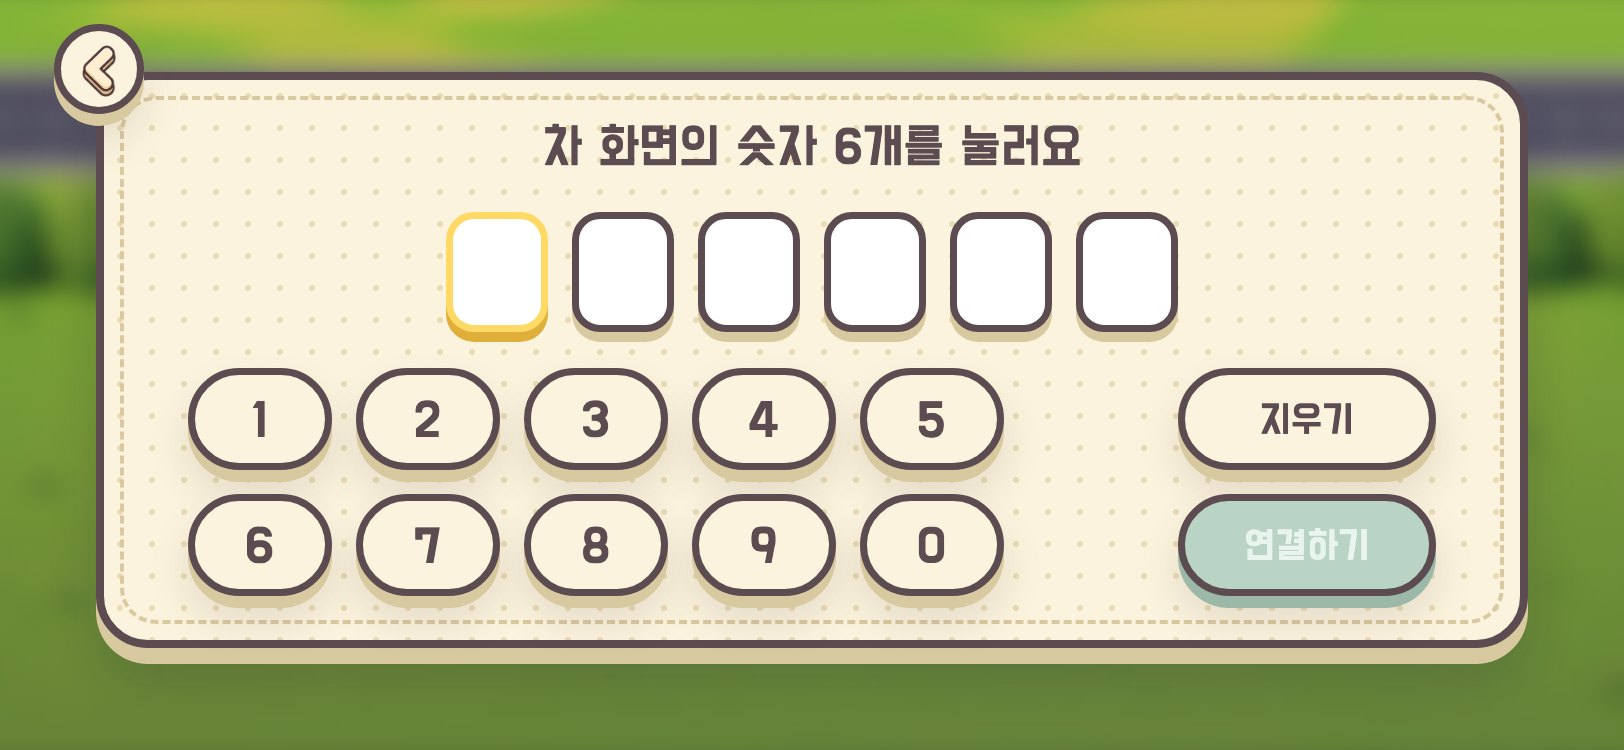
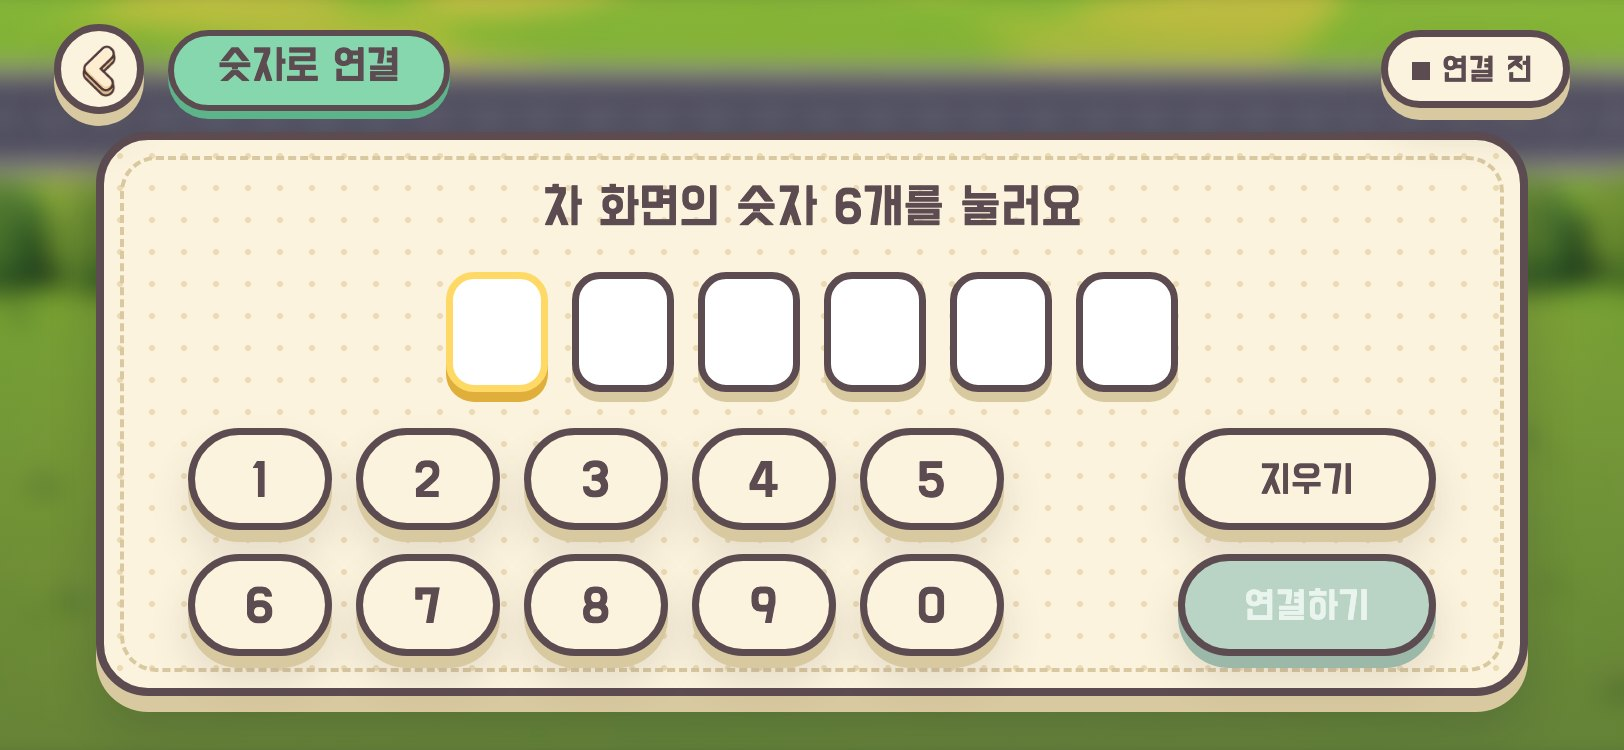
docs: add phone state screens and a V2 design system based on the car screen structure

diff --git a/docs/mockups/v2/allo-flow.html b/docs/mockups/v2/allo-flow.html
@@ -108,12 +108,12 @@ button.px[disabled]{--bg:#B9D3C4;--sh:#9BB8A8;--fg:#EAF4EE;pointer-events:none}
 #start{left:50%;bottom:30px;transform:translateX(-50%);padding:0 27px 6px;height:48px;font-size:22px;animation:pulse 1.2s ease-in-out infinite}@keyframes pulse{50%{transform:translateX(-50%) translateY(-6px)}}
 #sp1,#sp2{position:absolute;z-index:25;width:120px;height:120px;object-fit:contain}
 /* 차 연결 */
-#qrb{left:120px;top:42px;width:572px;height:243px}
+#qrb{left:120px;top:72px;width:572px;height:243px}
 #cam{position:absolute;left:36px;top:36px;width:168px;height:168px;background:#14163a;display:grid;place-items:center;cursor:pointer;box-shadow:0 0 0 3px var(--N)}
 #cam i{position:absolute;width:30px;height:30px;border:6px solid #fff}#cam i:nth-child(1){left:12px;top:12px;border-right:0;border-bottom:0}#cam i:nth-child(2){right:12px;top:12px;border-left:0;border-bottom:0}#cam i:nth-child(3){left:12px;bottom:12px;border-right:0;border-top:0}#cam i:nth-child(4){right:12px;bottom:12px;border-left:0;border-top:0}
 #cam span{font:700 13px/1.4 var(--f);color:#C9CCF3;text-align:center}
 #qr-r{position:absolute;left:240px;right:30px;top:36px}#qr-r p{margin-top:8px}#qr-r .px{position:relative;margin-top:18px;height:42px;padding:0 21px 6px;display:inline-flex}
-#codeb{left:48px;right:48px;top:36px;height:288px}#codeb h2{position:absolute;left:0;right:0;top:18px;text-align:center;font-size:26px}
+#codeb{left:48px;right:48px;top:66px;height:282px}#codeb h2{position:absolute;left:0;right:0;top:18px;text-align:center;font-size:26px}
 #boxes{position:absolute;left:50%;top:66px;transform:translateX(-50%);display:flex;gap:12px}#boxes i{width:51px;height:60px;background:#fff;box-shadow:0 -3px 0 0 var(--N),0 3px 0 0 var(--N),-3px 0 0 0 var(--N),3px 0 0 0 var(--N),inset 0 -6px 0 0 #E9E2C8;font:400 34px/54px var(--fd);text-align:center;font-style:normal}#boxes i.cur{box-shadow:0 -3px 0 0 var(--y),0 3px 0 0 var(--y),-3px 0 0 0 var(--y),3px 0 0 0 var(--y),inset 0 -6px 0 0 #E9E2C8}
 #keys{position:absolute;left:42px;top:144px;display:grid;grid-template-columns:repeat(5,72px);gap:12px}#keys .px,#kact .px{position:relative;height:51px;font-size:26px;padding:0 0 6px}
 #kact{position:absolute;right:42px;top:144px;display:flex;flex-direction:column;gap:12px}#kact .px{width:129px;font-size:20px}
@@ -188,6 +188,35 @@ button.px[disabled]{--bg:#B9D3C4;--sh:#9BB8A8;--fg:#EAF4EE;pointer-events:none}
 :is(.t3d,.toy) #zsay,:is(.t3d,.toy) #csay{padding:13px 16px!important}
 .tg::after{top:50%!important;transform:translateY(-50%)}
 .tier{padding-top:0!important;padding-bottom:0!important}
+
+/* V2 공통 헤더·상태 띠·상태 화면 (차량 화면 #92의 구조를 폰 3D 스킨으로 옮김) */
+:root{--r:#F4A59B;--r-s:#D27C72;--r-h:#FBD0CA}
+.px.r{--bg:var(--r);--sh:var(--r-s);--hi:var(--r-h);--fg:var(--N)}
+.ttl.hd{left:84px;top:15px;z-index:35}
+#stat{right:27px;top:15px;height:39px;padding:0 15px 0 12px;font-size:17px;z-index:35;display:none}
+#stat i{width:9px;height:9px;background:var(--N);flex:none}
+#stat.ok i{background:#2E9A6B}#stat.wait i{animation:blink 1s ease-in-out infinite}
+.px.band{left:27px;right:27px;bottom:21px;height:45px;justify-content:flex-start;gap:10px;padding:0 18px!important;font:500 14px/1.3 var(--f);text-shadow:none;z-index:30}
+.band i{width:22px;height:22px;border-radius:50%;background:var(--N);color:#fff;display:grid;place-items:center;font:700 14px/1 var(--f);font-style:normal;flex:none}
+.band.w{--bg:#DDF1FD;--sh:var(--b-s)}.band.w i{animation:blink 1s ease-in-out infinite}
+.band.e{--bg:#FDE3DF;--sh:var(--r-s)}.band.e i{background:#C2554A}
+.stg{position:absolute;z-index:20;left:40px;top:62px;width:290px;height:226px}
+.stg img{position:absolute;left:50%;bottom:34px;width:190px;height:190px;margin-left:-95px;object-fit:contain}
+.stg::before{content:"";position:absolute;left:50%;bottom:26px;width:140px;height:16px;margin-left:-70px;border-radius:50%;background:#1a3a2a59;filter:blur(3px)}
+.stg .chip{position:absolute;left:50%;bottom:0;transform:translateX(-50%);padding:3px 12px;border-radius:99px;background:var(--cream);border:2.5px solid var(--N);font:500 12px var(--f);white-space:nowrap}
+.px.pan.rp{left:362px;right:27px;top:62px;height:232px;padding:16px 22px}
+.rp h2{font-size:26px}.rp p,.rp .nb{word-break:keep-all}.scr.e .pan.rp{--bg:#FFF1EE}.scr.e .rp .nb{border-color:var(--r)}.scr.w .pan.rp{--bg:#F1F9FE}.scr.w .rp .nb{border-color:var(--b)}.rp p{margin-top:4px;font-size:14px}
+.rp .nb{margin-top:8px;padding:7px 12px;border-radius:14px;background:#FFFBEC;border:2px solid #E4D6AE;font:500 13px/1.45 var(--f)}
+.rp .btn{position:relative;margin:12px 8px 0 0;height:40px;padding:0 20px;display:inline-flex;font-size:18px}
+#pgrid{position:absolute;left:24px;right:24px;top:20px;display:flex;gap:10px}
+#pgrid .tile{flex:1;height:100px;min-width:0}#pgrid .tile img{height:62px}
+.tile.sel{--bg:#FFEBA8;--sh:var(--y-s)}
+.tile.sel::after{content:"✓";position:absolute;right:-6px;top:-8px;width:22px;height:22px;border-radius:50%;background:var(--g);border:2.5px solid var(--N);display:grid;place-items:center;font:700 13px var(--f)}
+#psel{position:absolute;left:24px;top:142px;font:400 22px var(--fd)}#psel small{display:block;font:500 13px var(--f);margin-top:4px;color:#5C6085}
+#pbtn{right:24px;top:140px;height:42px;padding:0 24px;font-size:19px}
+.fr{position:absolute;left:24px;right:24px;height:50px;justify-content:flex-start;gap:14px;padding:0 18px!important;font:400 19px var(--fd)}
+.fr b{width:22px;height:22px;background:var(--b);border:2.5px solid var(--N);transform:rotate(45deg) scale(.7);border-radius:4px;flex:none}
+.fr small{font:500 13px var(--f);color:#5C6085}.fr .r2{margin-left:auto;font:400 17px var(--fd)}
 @media (prefers-reduced-motion:reduce){*{animation:none!important;transition:none!important}}
 /* 폭신한 장난감 질감: 따뜻한 테두리와 퍼지는 틴트 그림자 */
 .px:not(.pan){border-radius:22px;box-shadow:0 6px 0 var(--sh,var(--cr-s)),0 12px 20px #5C4B5126!important;transition:transform .15s cubic-bezier(.34,1.56,.64,1),box-shadow .15s ease-out}
@@ -227,12 +256,12 @@ button.px:active{transform:translateY(4px) scale(.97);box-shadow:0 2px 0 var(--s
  <button class="px y" id="start">화면을 눌러 시작</button>
 </section>
 <section class="scr" id="s-qr">
- <button class="px sm back" data-ic="back" aria-label="뒤로" data-to="splash"></button>
+ <button class="px sm back" data-ic="back" aria-label="뒤로" data-to="splash"></button><div class="ttl hd">차와 연결</div>
  <div class="px pan" id="qrb"><button id="cam" aria-label="QR 비추기"><i></i><i></i><i></i><i></i><span>QR을 여기에<br>비춰 주세요</span></button>
   <div id="qr-r"><h2>차 화면의 QR을<br>비춰 주세요</h2><p>QR이 안 되면 숫자 6개로 연결해요</p><button class="px y" id="tocode">숫자로 연결하기</button></div></div>
 </section>
 <section class="scr" id="s-code">
- <button class="px sm back" data-ic="back" aria-label="뒤로" data-to="qr"></button>
+ <button class="px sm back" data-ic="back" aria-label="뒤로" data-to="qr"></button><div class="ttl hd">숫자로 연결</div>
  <div class="px pan" id="codeb"><h2>차 화면의 숫자 6개를 눌러요</h2><div id="boxes"></div><div id="keys"></div>
   <div id="kact"><button class="px" id="kdel">지우기</button><button class="px b" id="kok" disabled>연결하기</button></div></div>
 </section>
@@ -270,22 +299,72 @@ button.px:active{transform:translateY(4px) scale(.97);box-shadow:0 2px 0 var(--s
 </section>
 <section class="scr" id="s-dex">
  <button class="px sm back" data-ic="back" aria-label="뒤로" data-back="1"></button>
- <div class="px pan" style="left:24px;right:24px;top:63px;height:285px"><div class="ttl">도감</div><div class="cnt" id="dcount"></div><div id="grid"></div></div>
+ <div class="ttl hd">도감</div>
+ <div class="px pan" style="left:24px;right:24px;top:63px;height:285px"><div class="cnt" id="dcount"></div><div id="grid"></div></div>
 </section>
 <section class="scr" id="s-dd">
- <button class="px sm back" data-ic="back" aria-label="뒤로" data-to="dex"></button>
+ <button class="px sm back" data-ic="back" aria-label="뒤로" data-to="dex"></button><div class="ttl hd">도감</div>
  <div class="px pan" style="left:24px;right:24px;top:63px;height:285px"><div id="dd-img"><img alt=""></div><div id="dd-r"><h2></h2><div id="dd-t"></div><p id="dd-p"></p><div id="poses"></div></div></div>
 </section>
 <section class="scr" id="s-trip">
  <button class="px sm back" data-ic="back" aria-label="뒤로" data-back="1"></button>
- <div class="px pan" style="left:24px;right:24px;top:63px;height:285px"><div class="ttl">여행 기록</div><div class="cnt">예시 자료</div><div id="rows"></div></div>
+ <div class="ttl hd">여행 기록</div>
+ <div class="px pan" style="left:24px;right:24px;top:63px;height:285px"><button class="px b" id="tofish" style="right:18px;top:12px;height:34px;padding:0 16px;font-size:16px;z-index:3">낚시 기록장</button><div id="rows"></div></div>
 </section>
 <section class="scr" id="s-set">
  <button class="px sm back" data-ic="back" aria-label="뒤로" data-back="1"></button>
- <div class="px pan" style="left:99px;right:99px;top:63px;height:267px"><div class="ttl">설정</div>
+ <div class="ttl hd">설정</div>
+ <div class="px pan" style="left:99px;right:99px;top:63px;height:267px">
   <div class="px set" style="top:63px;position:absolute">효과음<button class="px tg on" aria-label="효과음"><i></i></button></div>
   <div class="px set" style="top:126px;position:absolute">배경음<button class="px tg on" aria-label="배경음"><i></i></button></div>
   <div class="px set" style="top:189px;position:absolute">차와 연결 끊기<button class="px b" id="unpair" style="position:relative;margin-left:auto;height:36px;padding:0 18px 6px;font-size:17px">끊기</button></div></div>
+</section>
+
+<section class="scr" id="s-pick">
+ <button class="px sm back" data-ic="back" aria-label="뒤로" data-back="1"></button><div class="ttl hd">함께 갈 친구</div>
+ <div class="px pan" style="left:24px;right:24px;top:63px;height:232px"><div id="pgrid"></div><div id="psel"></div><button class="px y" id="pbtn">이 친구와 함께 가기</button></div>
+ <div class="px band"><i>i</i><span>고른 친구가 차 화면에 나타나요. 확인되기 전에는 바뀌지 않아요.</span></div>
+</section>
+<section class="scr w" id="s-pickw">
+ <button class="px sm back" data-ic="back" aria-label="뒤로" data-back="1"></button><div class="ttl hd">친구 바꾸기</div>
+ <div class="stg"><img data-pose="idle" alt=""></div>
+ <div class="px pan rp"><h2>차에 알리고 있어요</h2><p>고른 친구를 차 화면에 전하는 중이에요.</p><div class="nb">확인되기 전에는 지금 친구가 그대로 있어요.</div><div><button class="px btn" disabled>확인 중</button></div></div>
+ <div class="px band w"><i>…</i><span>응답이 늦어도 실패로 보지 않아요</span></div>
+</section>
+<section class="scr e" id="s-pickf">
+ <button class="px sm back" data-ic="back" aria-label="뒤로" data-back="1"></button><div class="ttl hd">친구 바꾸기</div>
+ <div class="stg"><img data-pose="idle" alt=""><div class="chip">마지막으로 확인한 친구</div></div>
+ <div class="px pan rp"><h2>친구를 바꾸지 못했어요</h2><p>저장 상태를 확인한 뒤 다시 시도해 주세요.</p><div class="nb">새 선택은 아직 확정되지 않았어요. 기존 친구는 그대로예요.</div><div><button class="px y btn" data-to="pickw">다시 시도</button><button class="px btn" data-to="pick">돌아가기</button></div></div>
+ <div class="px band e"><i>!</i><span>차 화면의 친구는 바뀌지 않았어요</span></div>
+</section>
+<section class="scr" id="s-recv">
+ <button class="px sm back" data-ic="back" aria-label="뒤로" data-back="1"></button><div class="ttl hd">차에서 온 친구</div>
+ <div class="stg"><img data-pose="happy" alt=""></div>
+ <div class="px pan rp"><h2>친구가 폰으로 왔어요</h2><p>차에서 하던 낚시는 멈춰 있어요.</p><div class="nb">진행과 기록은 저장했어요. 차로 다시 보내려면 ‘함께 갈 친구’에서 골라요.</div><div><button class="px y btn" data-to="home">광장으로 가기</button></div></div>
+ <div class="px band i"><i>i</i><span>함께 갈 친구는 폰에서만 골라요</span></div>
+</section>
+<section class="scr e" id="s-recvx">
+ <button class="px sm back" data-ic="back" aria-label="뒤로" data-back="1"></button><div class="ttl hd">차에서 온 친구</div>
+ <div class="stg"><img data-pose="idle" alt=""><div class="chip">마지막으로 확인한 모습</div></div>
+ <div class="px pan rp"><h2>지금은 받을 수 없어요</h2><p>다른 활동 중이라고 확인됐어요.</p><div class="nb">진행 중인 활동은 취소하지 않아요. 상태를 확인한 뒤 다시 요청해 주세요.</div><div><button class="px btn" data-to="home">광장으로</button></div></div>
+ <div class="px band e"><i>!</i><span>자동으로 다시 시도하지 않아요</span></div>
+</section>
+<section class="scr e" id="s-lost">
+ <button class="px sm back" data-ic="back" aria-label="뒤로" data-back="1"></button><div class="ttl hd">연결 확인</div>
+ <div class="stg"><img data-pose="idle" alt=""><div class="chip">마지막으로 받은 모습</div></div>
+ <div class="px pan rp"><h2>차와 연결이 끊겼어요</h2><p>차 화면의 알로와 인터넷 연결을 확인해 주세요.</p><div class="nb">끊긴 동안의 결과는 연결된 뒤에 다시 확인해요.</div><div><button class="px y btn" data-to="qr">다시 연결하기</button></div></div>
+ <div class="px band e"><i>!</i><span>마지막으로 받은 상태예요</span></div>
+</section>
+<section class="scr" id="s-end">
+ <button class="px sm back" data-ic="back" aria-label="뒤로" data-back="1"></button><div class="ttl hd">여행 끝</div>
+ <div class="stg"><img data-pose="sleep" alt=""></div>
+ <div class="px pan rp"><h2>이번 연결이 끝났어요</h2><p>친구와 낚시 결과는 여기서 확인해요.</p><div class="nb">다시 함께하려면 차와 새로 연결해 주세요.</div><div><button class="px y btn" data-to="qr">다음 연결 준비</button></div></div>
+ <div class="px band i"><i>i</i><span>차를 세웠다고 저절로 끝나지는 않아요</span></div>
+</section>
+<section class="scr" id="s-fish">
+ <button class="px sm back" data-ic="back" aria-label="뒤로" data-back="1"></button><div class="ttl hd">낚시 기록장</div>
+ <div class="px pan" style="left:24px;right:24px;top:63px;height:232px"><div id="frows"></div></div>
+ <div class="px band"><i>i</i><span>낚시는 아직 팀이 정하지 않았어요(#53). 자리만 잡은 화면이에요.</span></div>
 </section>
 
 <div id="zoom" class="toy"><div id="zdim"></div><img id="zimg" alt=""><div id="fx"></div>
@@ -293,6 +372,7 @@ button.px:active{transform:translateY(4px) scale(.97);box-shadow:0 2px 0 var(--s
 <div id="ar" class="toy"><div class="floor"></div><div class="ph">카메라 화면 (예시)</div><div class="gs"></div><img id="arch" alt="">
  <div class="px" id="arhint">바닥을 비추면 친구가 나타나요</div><button class="px sm" id="arback" data-ic="back" aria-label="뒤로"></button>
  <button class="px b" id="arsw"></button><button class="px" id="shut" aria-label="사진 찍기"></button></div>
+<div id="stat" class="px"><i></i><span></span></div>
 <div id="flash"></div><div id="toast"></div>
 </div></div></div></div>
 <script>
@@ -312,9 +392,9 @@ const heart=k=>`<svg width="${9*k}" height="${6*k}" viewBox="0 0 9 6" fill="#FF5
 
 const S=[["road_sprout","길싹이",1],["puddle_pip","웅덩이삐약",1],["lamp_moth","등불나방",1],["storm_lantern","폭풍등",3],["highway_comet","고속혜성",3],["sea_mist","바다안개",3],["ember_crab","Ember Crab",0],["dewcap","Dewcap",0],["cloud_strider","Cloud Strider",0],["pebble_orbit","Pebble Orbit",0],["breeze_wyrm","Breeze Wyrm",0],["dune_roller","Dune Roller",0]];
 const TIER=["","일반","희귀","초희귀"],SAY=["오늘 창밖에서 반짝이는 빗방울을 봤어!","터널 안의 불빛이 별처럼 보였어.","같이 가면 심심하지 않아서 좋아."],OWN=[0,1,2,3,5,8,11];
-const LABEL={splash:"1 시작",qr:"2 QR로 연결",code:"3 숫자로 연결",home:"4 홈(광장)",inc:"5 알 키우는 중",hatch:"6 부화",cmp:"7 동행 중",arr:"8 도착",dex:"9 도감",dd:"10 도감 상세",trip:"11 여행 기록",set:"12 설정"};
+const LABEL={pick:"13 함께 갈 친구",pickw:"14 선택 확인 중",pickf:"15 선택 실패",recv:"16 차에서 온 친구",recvx:"17 이동 거절",lost:"18 연결 끊김",end:"19 여행 끝",fish:"20 낚시 기록장(예약)",splash:"1 시작",qr:"2 QR로 연결",code:"3 숫자로 연결",home:"4 홈(광장)",inc:"5 알 키우는 중",hatch:"6 부화",cmp:"7 동행 중",arr:"8 도착",dex:"9 도감",dd:"10 도감 상세",trip:"11 여행 기록",set:"12 설정"};
 const q=new URLSearchParams(location.search);
-const st={wish:0,conn:q.get("c")!="0",n:+(q.get("n")||4),pct:62,line:0,busy:0,cur:"splash",sel:5,pose:"idle",code:"",tm:"day",auto:1,back:"home"};
+const st={pick:0,hold:new URLSearchParams(location.search).has("hold"),wish:0,conn:q.get("c")!="0",n:+(q.get("n")||4),pct:62,line:0,busy:0,cur:"splash",sel:5,pose:"idle",code:"",tm:"day",auto:1,back:"home"};
 const toast=t=>{const e=$("#toast");e.textContent=t;e.classList.add("on");clearTimeout(toast.t);toast.t=setTimeout(()=>e.classList.remove("on"),2200)};
 const src=(i,p)=>`assets/${S[i][0]}/${p=="joy"?"joy.gif":p+".png"}`;
 const wait=ms=>new Promise(r=>setTimeout(r,ms));
@@ -374,9 +454,9 @@ let timers=[];const later=(f,ms)=>timers.push(setTimeout(f,ms));
 function go(name){st.keep=(st.cur=="dex"||st.cur=="trip"||st.cur=="set")&&name==st.back&&(name=="inc"||name=="cmp");timers.forEach(clearTimeout);timers=[];st.cur=name;st.busy=0;$("#zoom").classList.remove("on");$("#ar").classList.remove("on");
  const pl=["inc","hatch","cmp"].includes(name);$("#scene").classList.toggle("pl",pl);$("#scene").classList.toggle("plain",name!="home"&&!pl);$("#dimm").style.display=name!="home"&&!pl?"block":"none";
  $$(".scr").forEach(s=>s.classList.remove("on","fade"));$("#s-"+name).classList.add("on","fade");
- $$("#nav button").forEach(b=>b.classList.toggle("on",b.dataset.g==name));
+ $$("#nav button").forEach(b=>b.classList.toggle("on",b.dataset.g==name));setStat(name);
  if(history.replaceState&&!q.has("embed"))history.replaceState(null,"","?t="+st.tm+"#"+name);
- ({splash:enterSplash,qr:()=>{},code:enterCode,home:ui,inc:enterInc,hatch:enterHatch,cmp:enterCmp,arr:enterArr,dex:enterDex,dd:enterDd,trip:enterTrip,set:()=>{}})[name]()}
+ ({pick:enterPick,pickw:enterPickw,pickf:enterSide,recv:enterSide,recvx:enterSide,lost:enterSide,end:enterSide,fish:enterFish,splash:enterSplash,qr:()=>{},code:enterCode,home:ui,inc:enterInc,hatch:enterHatch,cmp:enterCmp,arr:enterArr,dex:enterDex,dd:enterDd,trip:enterTrip,set:()=>{}})[name]()}
 $$("[data-to]").forEach(b=>b.onclick=()=>go(b.dataset.to));
 function enterSplash(){$("#sp1").src=src(1,"idle");$("#sp2").src=src(0,"idle");$("#sp2").style.transform="scaleX(-1)"}
 $("#s-splash").onclick=()=>go("qr");
@@ -434,6 +514,21 @@ function enterDd(){const i=st.sel,[,ko,t]=S[i];$("#dd-img img").src=src(i,st.pos
 const TRIPS=[["11월 8일","가까운 길",0],["11월 5일","먼 길",5],["10월 30일","보통 길",2]];
 function enterTrip(){$("#rows").innerHTML=TRIPS.map((t,k)=>`<div class="px row" style="top:${60+k*72}px"><img src="assets/${S[t[2]][0]}/egg.png" alt=""><div>${t[0]}<small>${t[1]}</small></div><div class="r">${S[t[2]][1]}<img src="${src(t[2],"idle")}" alt=""></div></div>`).join("")}
 $$(".tg").forEach(b=>b.onclick=()=>b.classList.toggle("on"));$("#unpair").onclick=()=>{st.conn=false;go("home")};
+
+/* ===== V2 상태 화면 ===== */
+const STAT={qr:["연결 전",""],code:["연결 전",""],dex:["conn","ok"],dd:["conn","ok"],trip:["conn","ok"],set:["conn","ok"],pick:["conn","ok"],pickw:["확인 중","wait b"],pickf:["저장 실패","r"],recv:["이동 완료","ok g"],recvx:["이동 거절","r"],lost:["연결 끊김","r"],end:["세션 종료","gy"],fish:["예약 슬롯","gy"]};
+function setStat(name){const e=$("#stat"),v=STAT[name];if(!v){e.style.display="none";return}
+ const off=v[0]=="conn"&&!st.conn,t=v[0]=="conn"?(st.conn?"차 연결됨":"차 연결 안 됨"):v[0];
+ e.className="px "+(off?"y":v[1]);e.querySelector("span").textContent=t;e.style.display="flex"}
+function enterSide(){$$("#s-"+st.cur+" .stg img").forEach(i=>i.src=src(st.pick,i.dataset.pose))}
+function enterPick(){const own=OWN.filter(i=>i<S.length);
+ $("#pgrid").innerHTML=own.map(i=>`<button class="px tile${i==st.pick?" sel":""}" data-i="${i}"><img src="${src(i,"idle")}" alt=""><span>${S[i][1]}</span></button>`).join("");
+ $$("#pgrid .tile").forEach(b=>b.onclick=()=>{st.pick=+b.dataset.i;enterPick()});
+ const [,ko,t]=S[st.pick];$("#psel").innerHTML=`${ko}<small>${t?TIER[t]:"일반"} · 폰에 있는 친구</small>`}
+$("#pbtn").onclick=()=>go("pickw");
+function enterPickw(){enterSide();if(!st.hold)later(()=>{toast("차 화면에 곧 나타나요");go("home")},1800)}
+function enterFish(){$("#frows").innerHTML=[["물고기 A","임시 명칭","3건"],["물고기 B","임시 명칭","1건"],["물고기 C","임시 명칭","0건"]].map((r,k)=>`<div class="px fr" style="top:${20+k*60}px"><b></b><div>${r[0]}<small> · ${r[1]}</small></div><div class="r2">${r[2]}</div></div>`).join("")}
+$("#tofish").onclick=()=>{st.back="trip";go("fish")};
 /* 개발용 */
 $("#nav").innerHTML=Object.keys(LABEL).map(k=>`<button data-g="${k}">${LABEL[k]}</button>`).join("");$$("#nav button").forEach(b=>b.onclick=()=>go(b.dataset.g));
 $("#tbtn").innerHTML=Object.keys(TNAME).map(k=>`<button data-t="${k}">${TNAME[k]}</button>`).join("");$$("#tbtn button").forEach(b=>b.onclick=()=>setTheme(b.dataset.t));

diff --git a/docs/design-system-v2.md b/docs/design-system-v2.md
@@ -1,0 +1,127 @@
+# ALLO 폰 앱 디자인 시스템 V2 (초안)
+
+폰 앱(가로 812×375 논리 px)의 시각 토큰, 공통 컴포넌트, 상태 표현 규칙을 정리한다. 구조와 상태 규칙은 이슈 #92의 차량 화면 설계를 기준으로 삼고, 시각 스킨은 폰의 3D 장난감 스타일을 유지한다. 값은 `docs/mockups/v2/allo-flow.html`의 실제 CSS에서 가져왔다. 이 문서는 제안이며 팀 확정안이 아니다.
+
+## 1. 차량 화면과의 관계
+
+| 항목 | 차량(#92) | 폰(이 문서) | 공유 여부 |
+|---|---|---|---|
+| 화면 구조 | 헤더 + 주 콘텐츠(왼쪽 캐릭터, 오른쪽 정보·행동) + 하단 상태 띠 | 같음 | 공유 |
+| 상태 어휘 | 정상, 확인 중, 실패, 끊김, 종료 | 같음 | 공유 |
+| 화면 우선순위 | 주행·UX 제한 > 세션 종료 > 연결 끊김 > 폰의 확정 상태 | 세션 종료 > 연결 끊김 > 확정 상태(주행 제한 없음) | 일부 |
+| 원칙 | 확인되기 전에는 성공으로 표시하지 않는다 | 같음 | 공유 |
+| 문구 | 존댓말, 무슨 일이 일어났는지와 다음 행동 | 같음 | 공유 |
+| 시각 | 어두운 평면, 노랑 강조(`#FCCC44`) | 크림·민트 3D 장난감 | 공유하지 않음 |
+| 글꼴 | Apple SD Gothic Neo 시안, Pleos 글꼴 검토 | Do Hyeon + Noto Sans KR | 공유하지 않음 |
+
+폰은 운전자가 보는 화면이 아니므로 주행 제한 화면은 없다. 대신 차량의 주행 제한이 걸린 동안 폰에서 차량 조작이 필요한 행동(친구 보내기 등)은 비활성으로 표시한다(미구현, 계약 확정 후).
+
+## 2. 토큰
+
+### 색
+
+| 이름 | 값 | 면 아래 | 하이라이트 | 용도 |
+|---|---|---|---|---|
+| 먹(텍스트·테두리) `--N` | `#5C4B51` | | | 글자, 3.5px 테두리 |
+| 크림 `--cream` | `#FBF3DD` | `#D9C9A0` | `#FFFFFF` | 기본 버튼, 패널 |
+| 민트 `--g` | `#86D6AE` | `#5DB38A` | `#BDEBD3` | 일반 행동, 정상 |
+| 하늘 `--b` | `#8CCBF2` | `#5EA7D6` | `#C2E6FB` | 보조 행동, 대기 |
+| 노랑 `--y` | `#FFD966` | `#E0AE3A` | `#FFEBA8` | 이 화면의 주요 행동 하나 |
+| 회색 `--gy` | `#9AA0CC` | `#6F76A6` | `#C8CCE8` | 준비 중, 종료, 예약 슬롯 |
+| 산호 `--r` (신규) | `#F4A59B` | `#D27C72` | `#FBD0CA` | 실패, 끊김, 거절 |
+
+상태 띠 배경: 정보 크림, 대기 `#DDF1FD`, 오류 `#FDE3DF`. 패널 배경은 대기 `#F1F9FE`, 오류 `#FFF1EE`로 살짝 물들인다.
+
+규칙: 노랑은 한 화면에 주요 행동 하나에만 쓴다. 상태는 색만으로 구분하지 않고 아이콘(i, …, !)과 글자를 함께 쓴다.
+
+### 글자
+
+| 역할 | 글꼴 | 크기 | 비고 |
+|---|---|---|---|
+| 화면 제목(헤더 알약) | Do Hyeon | 22 | |
+| 패널 제목 | Do Hyeon | 26~28 | 한 줄 |
+| 버튼 | Do Hyeon | 17~19 | |
+| 본문 | Noto Sans KR 500 | 14~15 | `word-break:keep-all` |
+| 보조·캡션 | Noto Sans KR 500 | 12~13 | 칩, 안내 상자 |
+
+차량 시안의 보조 글자 18sp 기준에 비하면 폰의 보조 글자가 작다. 폰은 손에 쥐고 보는 거리라 허용하되, 실기 확인이 필요하다.
+
+### 간격과 모양
+
+- 안전 여백: 좌우 27, 위 15(헤더)~21(버튼), 아래 21. 패널은 좌우 24.
+- 모서리: 버튼과 칩은 알약(99), 정사각 버튼은 22, 패널은 26.
+- 테두리 3.5px 먹색. 밑면 6px 단색(면 아래 색) + 부드러운 그림자. 누르면 4px 내려앉고 97%로 줄어든다.
+- 장면 위에서는 배경을 흐리게(블러 6px) 하고 위아래로 어둡게 깔아 패널과 글자의 대비를 확보한다.
+
+## 3. 컴포넌트
+
+| 컴포넌트 | 구성 | 사용 위치 |
+|---|---|---|
+| 헤더 | 왼쪽 뒤로 원형 버튼(45), 화면 제목 알약(왼쪽 84), 오른쪽 상태 칩 | 시작·홈·알 키우기·부화·도착을 뺀 모든 화면 |
+| 상태 칩 | 높이 39, 점 + 글자. 연결됨(크림, 초록 점), 확인 중(하늘, 깜빡임), 실패·끊김·거절(산호), 종료·예약(회색) | 헤더 오른쪽 |
+| 상태 띠 | 높이 45 알약, 아이콘 + 한 줄 문구, 정보·대기·오류 3종 | 화면 아래 |
+| 캐릭터 무대 | 왼쪽 290×226, 캐릭터 190, 바닥 그림자, 필요하면 캡션 칩 | 상태 화면 |
+| 상태 패널 | 오른쪽 제목, 설명, 안내 상자, 버튼 최대 2개 | 상태 화면 |
+| 선택 타일 | 도감 타일과 같은 모양, 선택되면 노랑 + 체크 배지 | 함께 갈 친구 |
+| 버튼 | 크림(보조), 노랑(주요), 민트·하늘(일반), 산호(위험·실패), 비활성(회색 녹색) | |
+| 진행 막대 | 10칸, 민트 | 알 키우기·동행 |
+| 말풍선·토글·기록 행 | 기존 스타일 유지 | |
+
+화면당 상태 띠는 하나, 주요(노랑) 버튼도 하나다.
+
+## 4. 상태 표현
+
+| 상태 | 칩 | 패널 | 띠 | 버튼 | 캐릭터 |
+|---|---|---|---|---|---|
+| 정상 | 연결됨(초록 점) | 기본 | 정보(i) | 노랑 주요 | 선택된 포즈 |
+| 확인 중 | 하늘, 깜빡임 | 하늘 기운 | 대기(…) | 비활성, "확인 중" | 정지 |
+| 실패 | 산호 | 분홍 기운 | 오류(!) | 노랑 "다시 시도" + 돌아가기 | 마지막 확인 모습 + 캡션 |
+| 끊김 | 산호 | 분홍 기운 | 오류(!) | 노랑 "다시 연결하기" | 마지막 받은 모습 + 캡션 |
+| 거절 | 산호 | 분홍 기운 | 오류(!) | 보조 "광장으로" | 마지막 확인 모습 + 캡션 |
+| 종료 | 회색 | 기본 | 정보(i) | 노랑 "다음 연결 준비" | 잠자는 포즈 |
+
+규칙
+1. 확인되기 전에는 성공으로 표시하지 않는다. 응답이 늦어도 실패로 단정하지 않는다("확인 중" 유지).
+2. 실패 화면은 무엇이 바뀌지 않았는지를 먼저 말한다("기존 친구는 그대로예요").
+3. 마지막으로 확인한 상태를 보여 줄 때는 캡션 칩으로 표시한다.
+4. 자동 재시도·자동 재개를 하지 않는다. 다시 하려면 사용자가 누른다.
+5. 이전 세션이나 이전 개체의 늦은 응답은 현재 화면에 적용하지 않는다.
+
+## 5. 화면 구성 격자
+
+```text
+┌ [뒤로][화면 제목]                       [상태 칩] ┐  y 15~54
+│                                                   │
+│  [캐릭터 무대 290×226]   [상태 패널 left 362~]    │  y 62~294
+│                                                   │
+├ [상태 띠 ─────────────────────────────────────] ┤  y 309~354
+└───────────────────────────────────────────────────┘
+```
+
+목록·도감처럼 폭이 넓은 화면은 상태 패널 대신 전체 폭 패널(좌우 24, 위 63)을 쓴다.
+
+## 6. 화면 목록 (V2 HTML)
+
+기존 12개와 변형(홈 시간대 4종, 변신 확대, AR) 외에 이번에 추가한 상태 화면이다.
+
+| 번호 | 화면 | 대응하는 차량 시안(#92 보드 기준) |
+|---|---|---|
+| 13 | 함께 갈 친구 고르기 | 15 동행 캐릭터 없음의 "폰의 보유 개체 목록에서 선택" |
+| 14 | 선택 확인 중 | 16 선택 변경 중 |
+| 15 | 선택 실패 | 17 선택 변경 실패 |
+| 16 | 차에서 온 친구 | 11 폰 이동 완료 |
+| 17 | 이동 거절 | 18 폰 이동 거절 |
+| 18 | 연결 끊김 | 12 연결 끊김 |
+| 19 | 여행 끝 | 14 세션 종료 |
+| 20 | 낚시 기록장(예약 슬롯) | 08 보상 획득 이후의 기록 확인 |
+
+낚시 기록장은 #68 범위를 넓히는 제안이고 팀 채택 전이다. 자리만 잡은 화면이며 이름과 수치는 임시다.
+
+## 7. 한계와 열린 항목
+
+- 차량 시안의 문구와 상태 이름은 이슈 코멘트(v3~v6)에서 읽은 것이고, 일부 코멘트 본문은 도구가 압축해 전부 읽지 못했다.
+- 폰 상태 화면의 동작은 이슈의 제안을 따른 가안이다. 계약(#54, #60, #72)이 확정되지 않았다.
+- 새 화면의 문구 일부(예: "차를 세웠다고 저절로 끝나지는 않아요")는 차량 설계의 규칙을 폰 입장으로 옮긴 것이다. 차량 작성자와 확인이 필요하다.
+- 스크린샷은 정지 화면이다. 연출 중간 상태, 실기 시인성, 글꼴 배율은 확인하지 않았다.
+- 폰 팔레트(크림·민트·코코아), 차량 팔레트(먹색·`#FCCC44`), dev의 확정 가이드가 서로 다르다. 폰이 차량과 맞출지는 결정이 필요하다.
+- 같은 아이콘 세트(PNG)에 산호색 상태용 아이콘(i, …, !)은 코드 글자로 대체했다. 제작이 필요하면 에셋 요청서에 추가한다.
